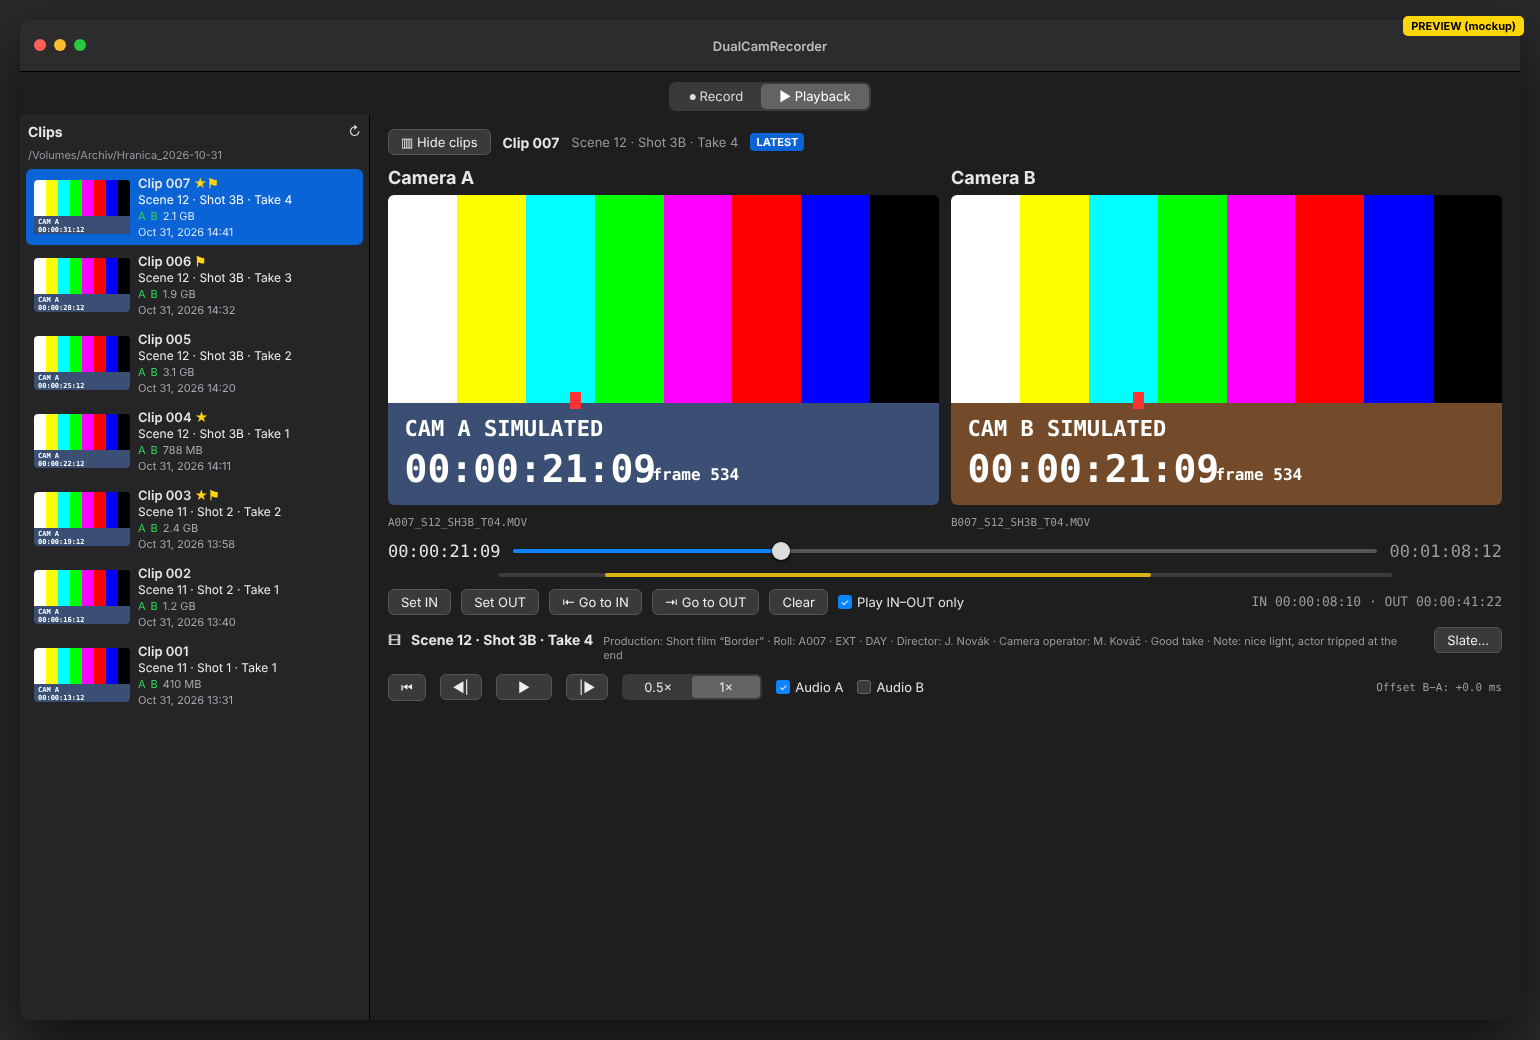
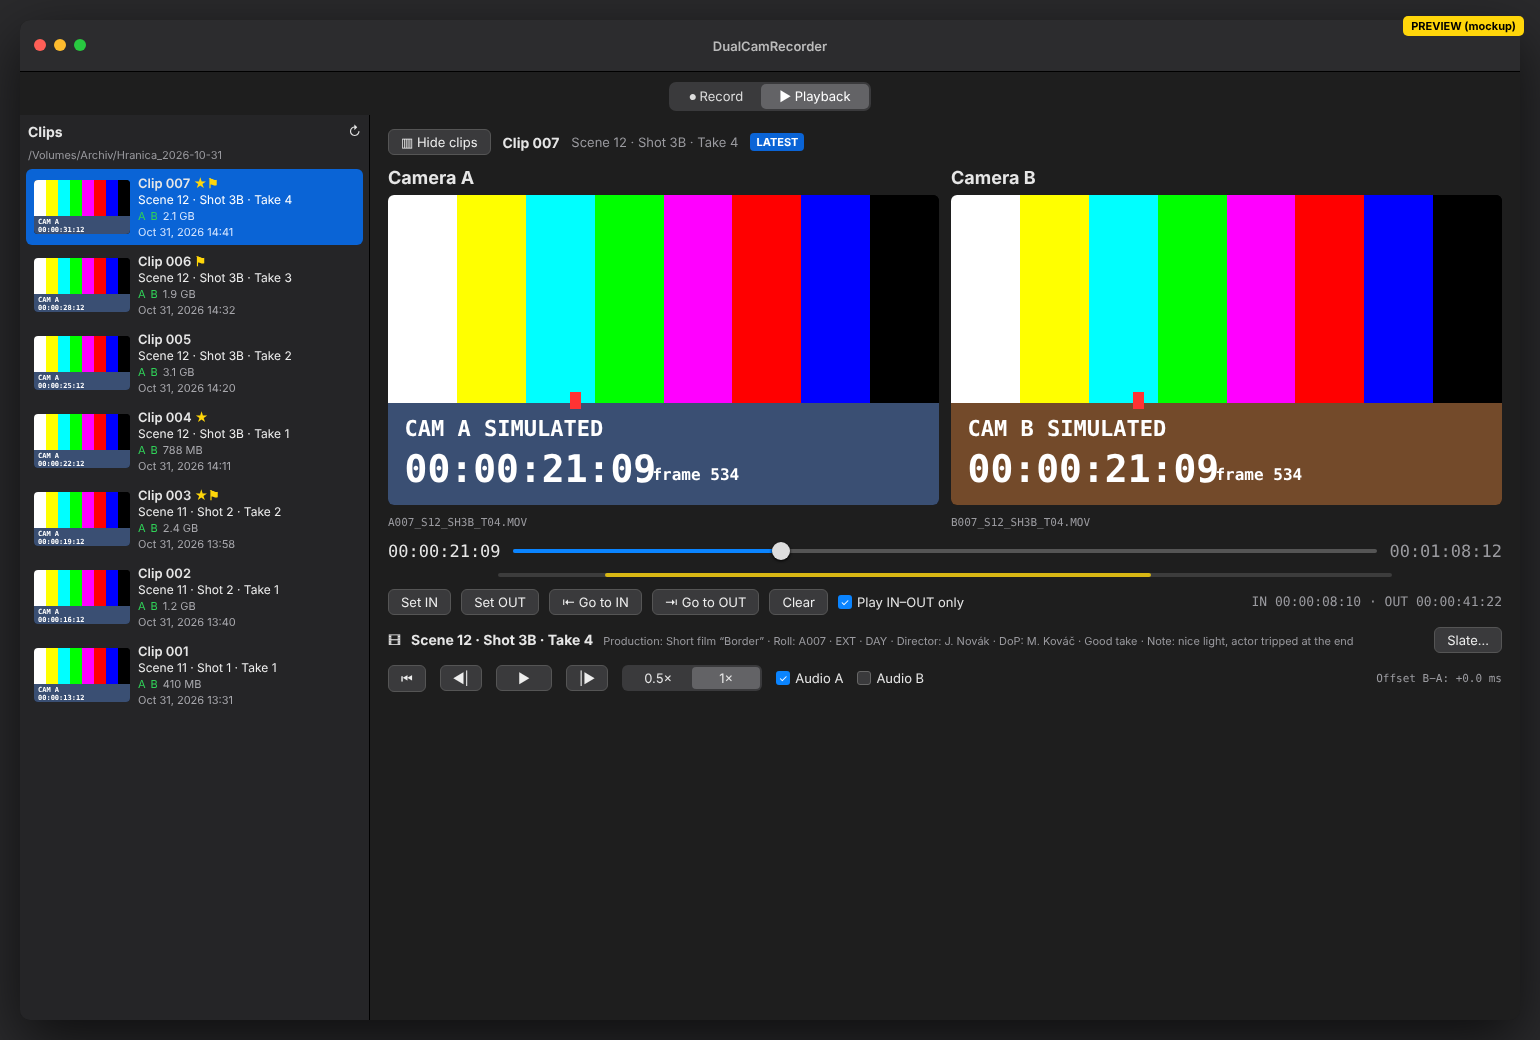
Label the camera operator slate field DoP
Claude-Session: https://claude.ai/code/session_01SjxyfTkJQH7RKsrkA8EJQA

diff --git a/DualCamRecorder/Recording/SlateInfo.swift b/DualCamRecorder/Recording/SlateInfo.swift
@@ -65,7 +65,7 @@ struct SlateInfo: Codable, Hashable {
         let flags = [location.rawValue, timeOfDay.rawValue, mos ? "MOS" : ""].filter { !$0.isEmpty }
         if !flags.isEmpty { lines.append(flags.joined(separator: " · ")) }
         if !director.isEmpty { lines.append("Director: \(director)") }
-        if !cameraOperator.isEmpty { lines.append("Camera operator: \(cameraOperator)") }
+        if !cameraOperator.isEmpty { lines.append("DoP: \(cameraOperator)") }
         if good { lines.append("Good take") }
         if !note.isEmpty { lines.append("Note: \(note)") }
         return lines.joined(separator: "\n")

diff --git a/DualCamRecorder/Views/SlateView.swift b/DualCamRecorder/Views/SlateView.swift
@@ -68,7 +68,7 @@ struct SlateFields: View {
             GridRow {
                 field("Production", text: $slate.production)
                 field("Director", text: $slate.director)
-                field("Camera operator", text: $slate.cameraOperator)
+                field("DoP", text: $slate.cameraOperator)
                 field("Roll", text: $slate.roll).frame(maxWidth: 110)
             }
             .disabled(locked)
